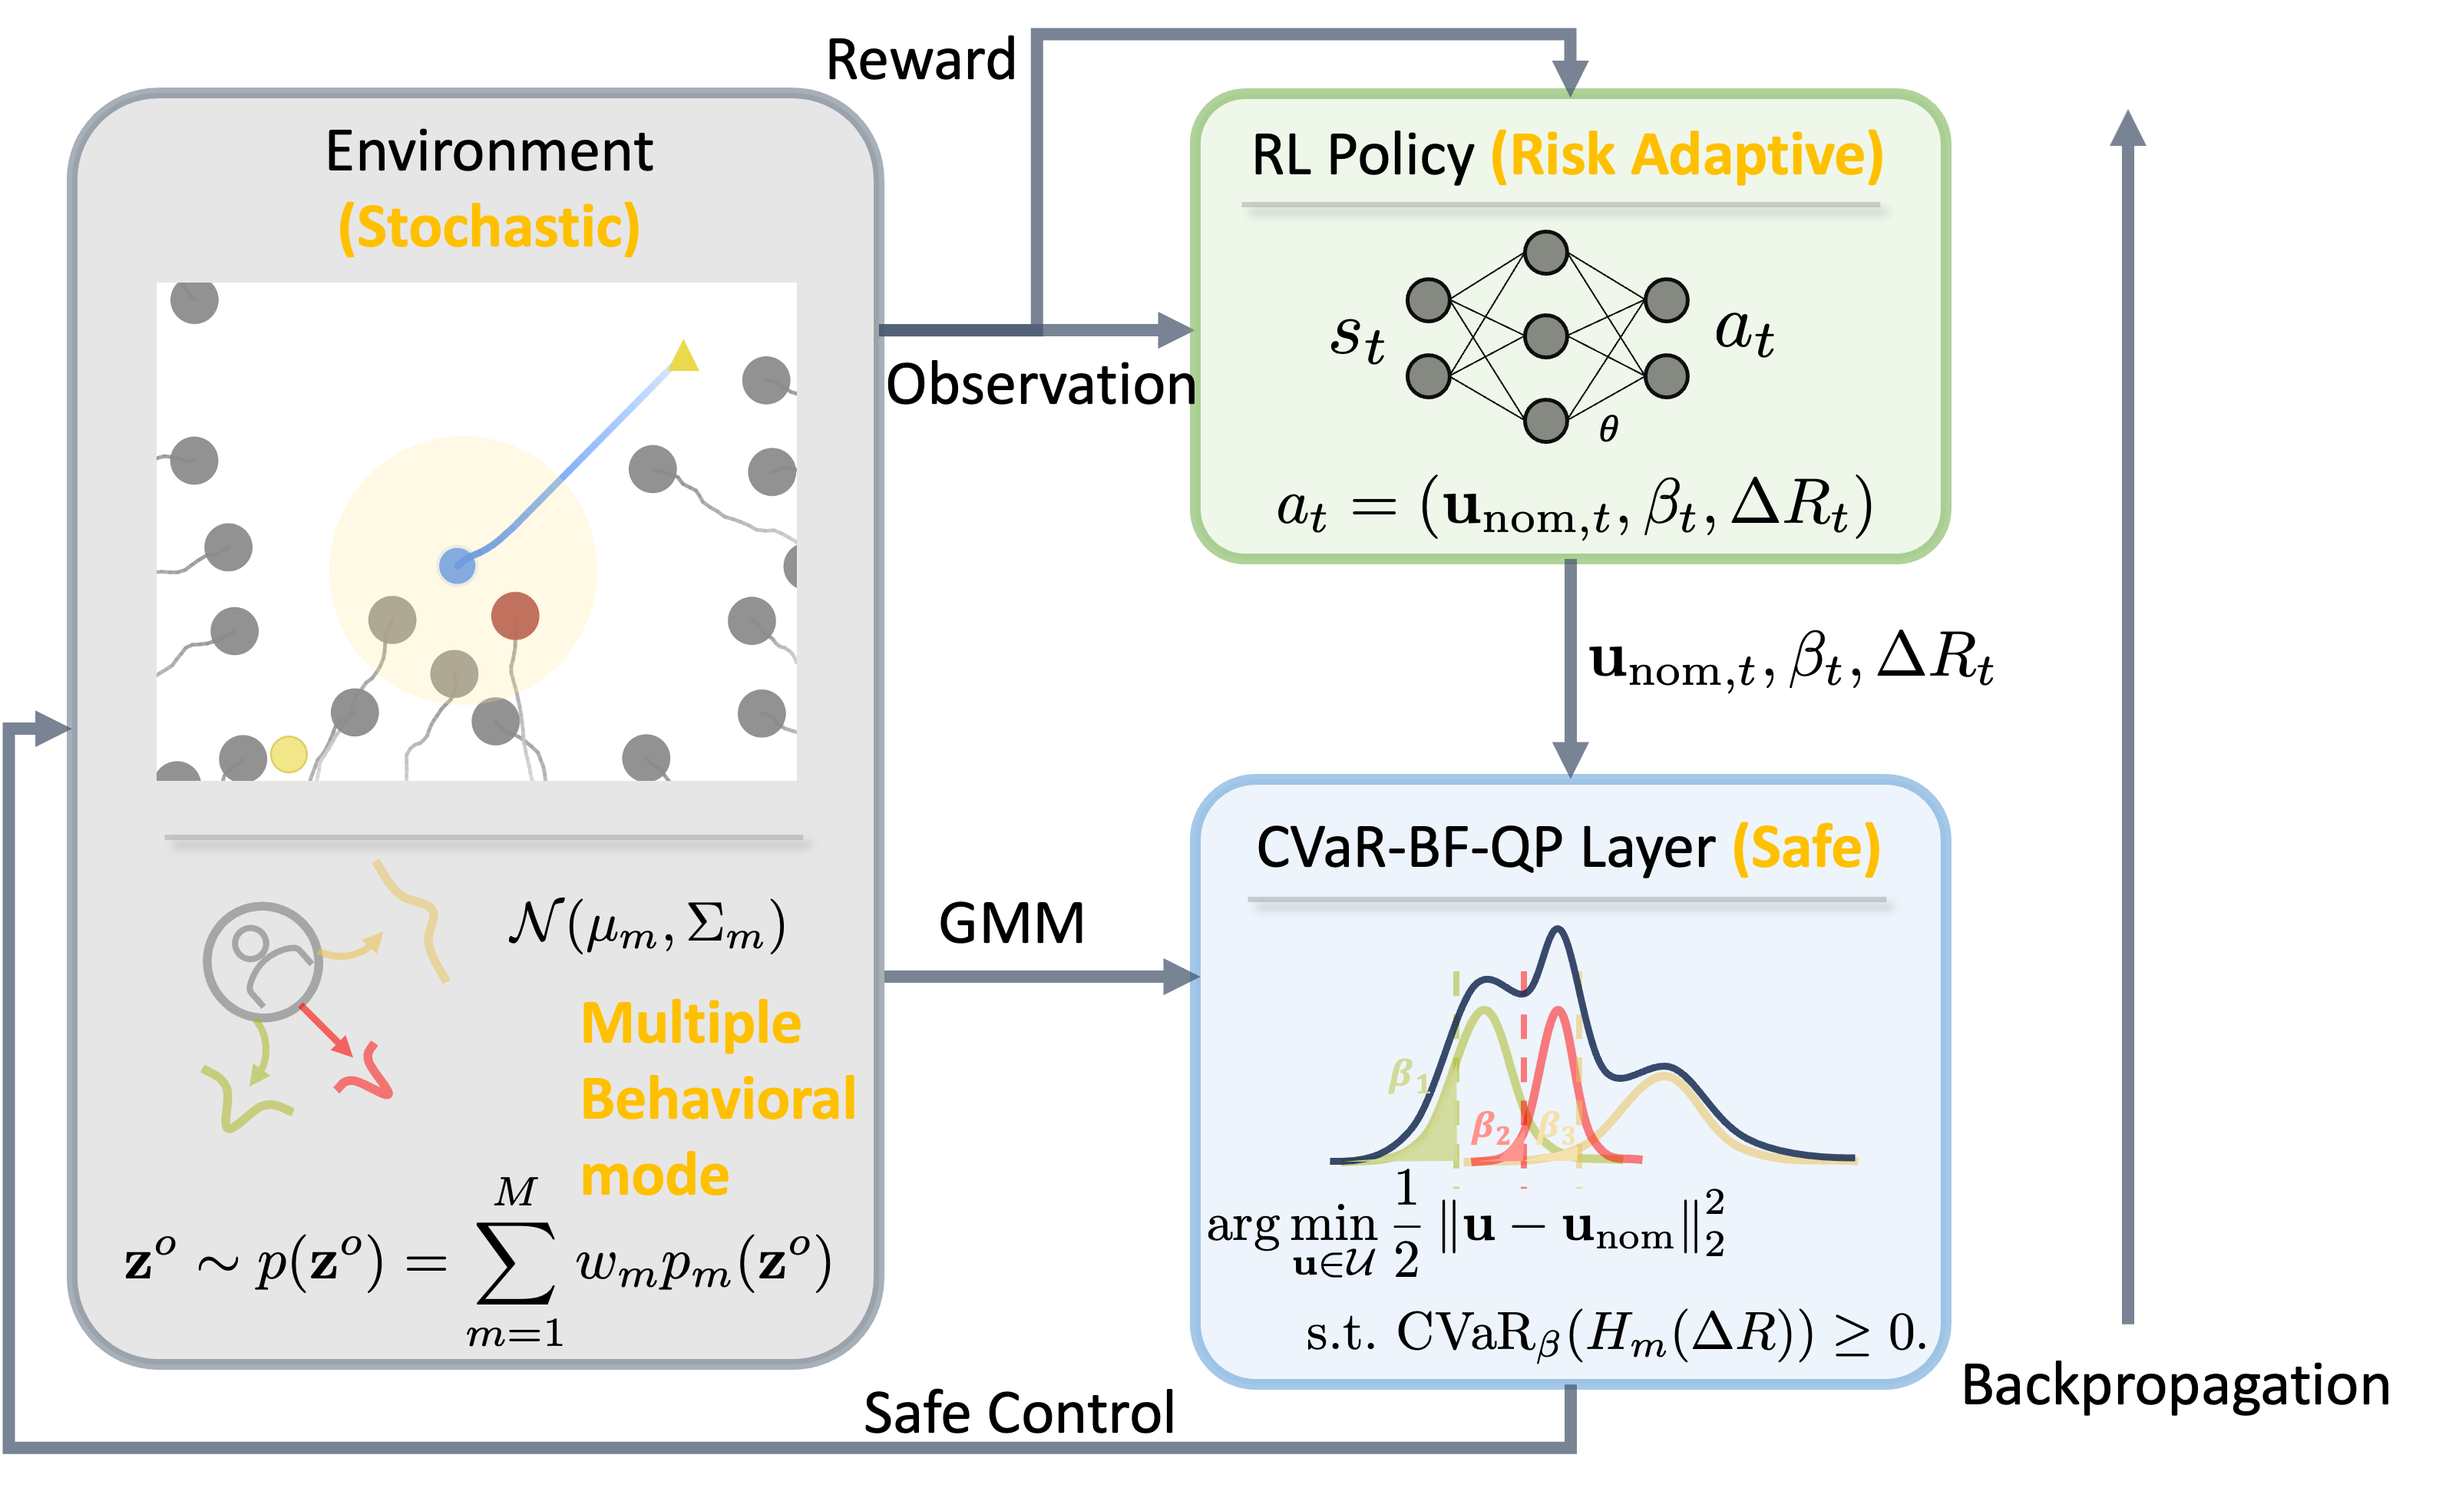
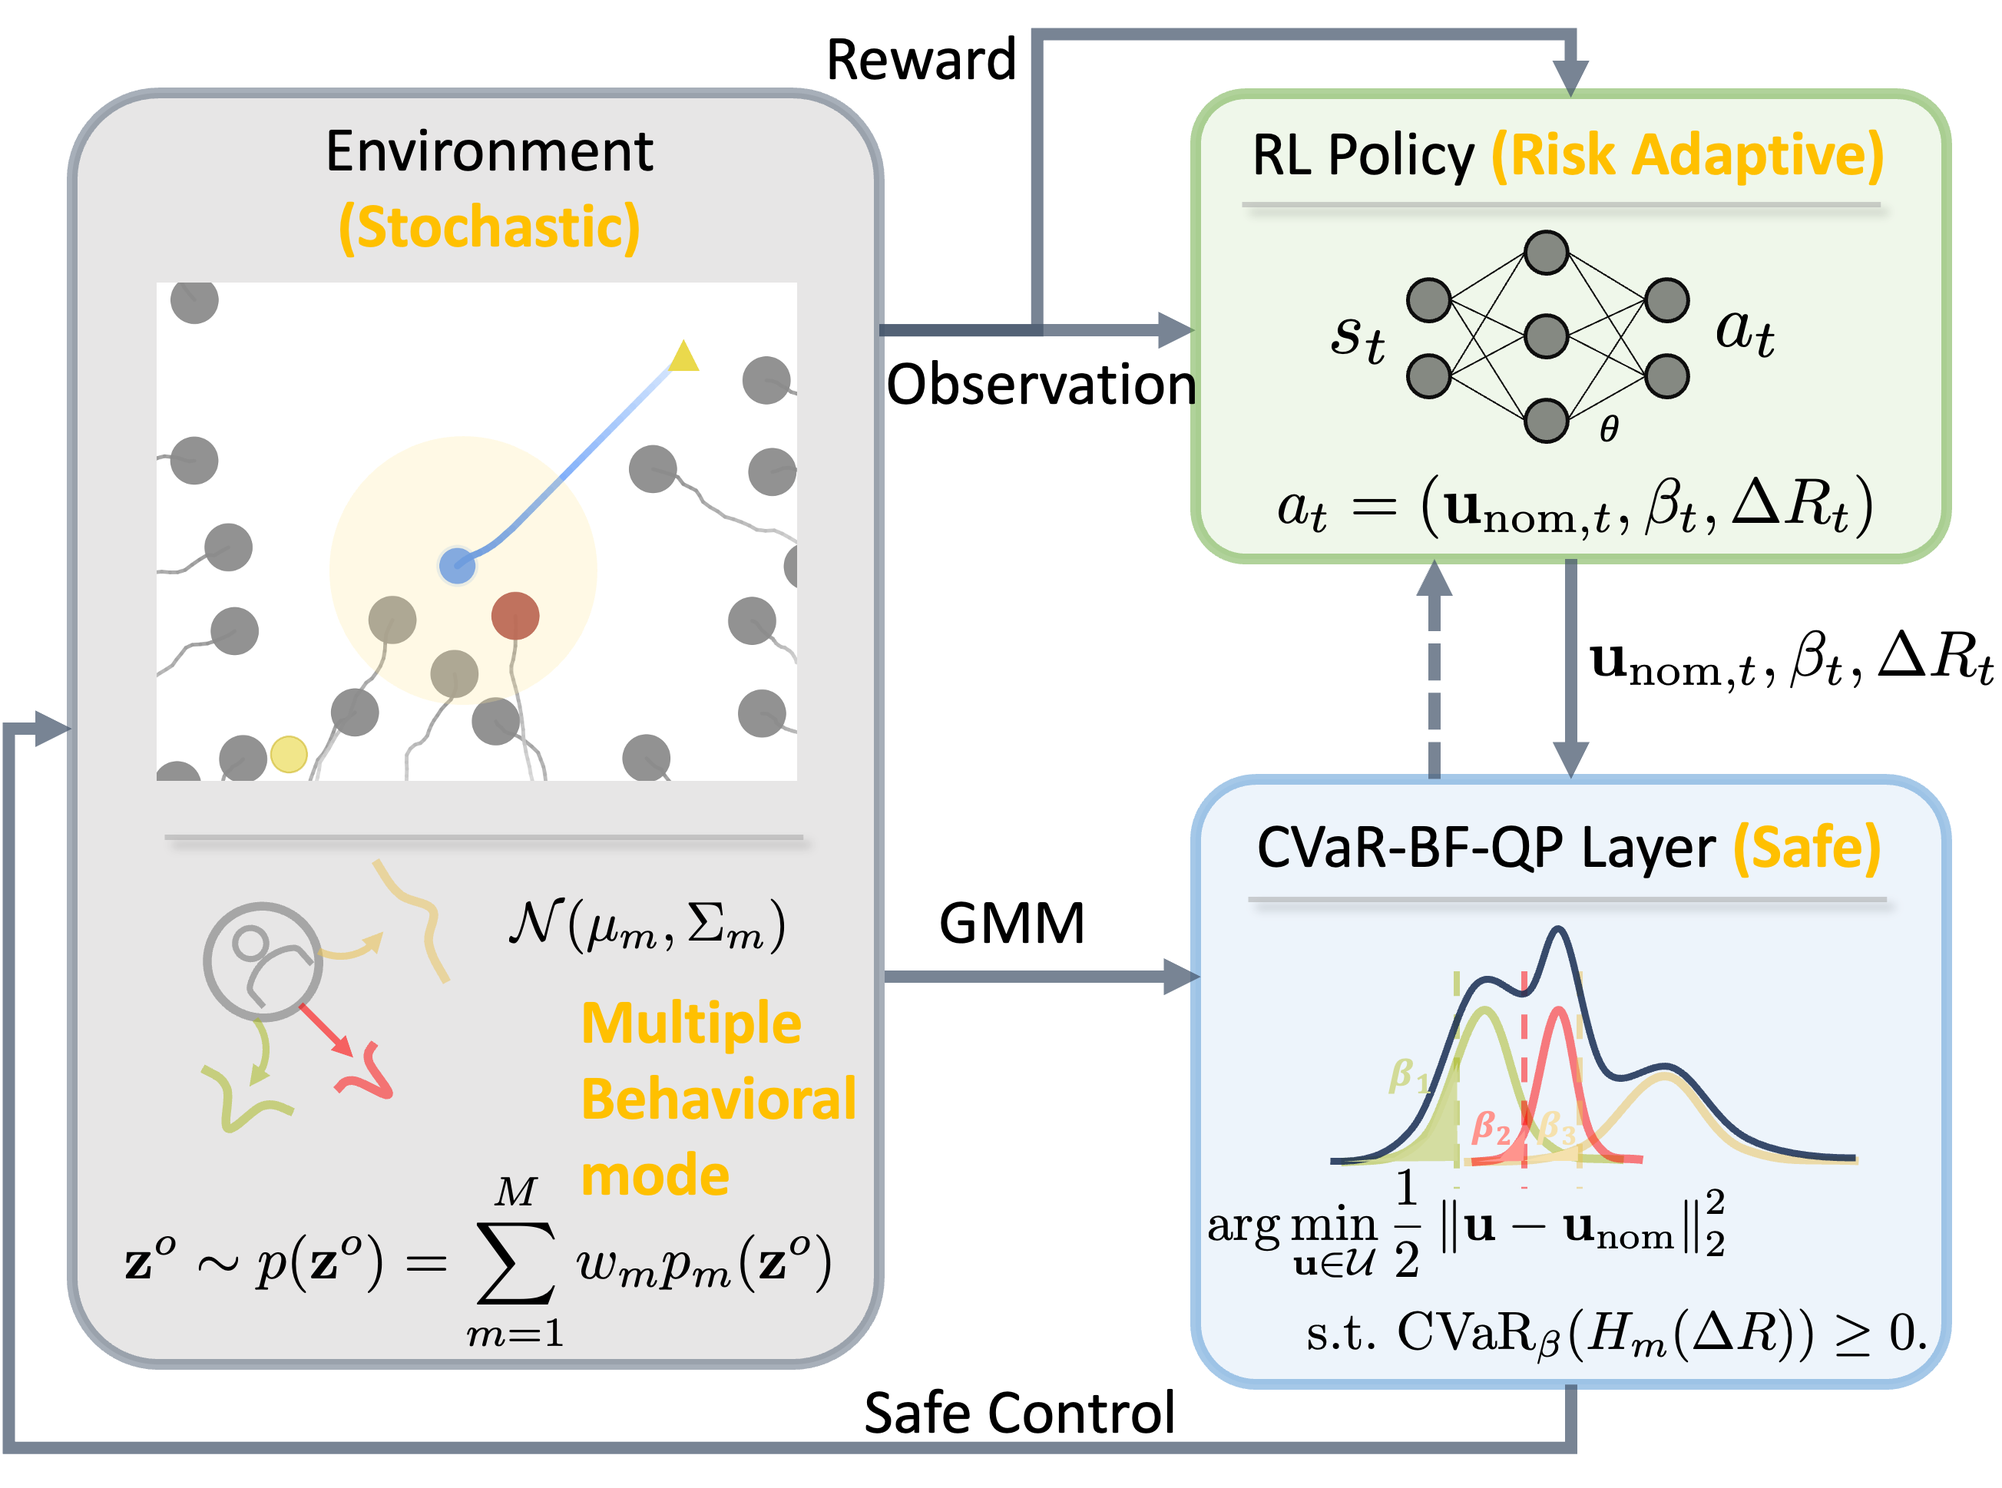
update name

Changed region(s): [[0.0, 0.0, 0.9942, 0.9907]]

diff --git a/index.html b/index.html
@@ -70,6 +70,7 @@
             <span class="publication-title-line">Learning to Adapt Risk via</span>
             <span class="publication-title-line">Differentiable CVaR Barrier Functions</span>
           </h1>
+          <!--
           <div class="is-size-5 publication-authors">
             <span class="author-block">
               <a href="https://lawliet9666.github.io">Xinyi Wang</a><sup>1</sup>,</span>
@@ -89,6 +90,15 @@
           <div class="is-size-5 publication-authors">
             <span class="author-block"><sup>1</sup>Department of Robotics, University of Michigan,</span>
             <span class="author-block"><sup>2</sup>Toyota North America Research &amp; Development</span>
+          </div>
+          -->
+
+          <div class="is-size-5 publication-authors">
+            <span class="author-block">匿名</span>
+          </div>
+
+          <div class="is-size-5 publication-authors">
+            <span class="author-block">匿名</span>
           </div>
 
           <div class="has-text-centered" style="margin-top: 1.25rem;">
@@ -474,10 +484,16 @@
         </summary>
         <div class="mme-finding-body">
           <p class="mme-key-line">
-            Optimization-based methods generally struggle in highly dynamic environments due to frequent infeasibility of the underlying control problems, resulting in lower success rates.
+            Hybrid RL + optimization methods provide the strongest overall balance of safety and task performance.
           </p>
           <p class="mme-body-copy">
-            In contrast, pure RL methods improve task performance in some cases but still exhibit relatively high collision rates without explicit safety mechanisms, indicating that efficiency alone is insufficient. Hybrid RL with optimization approaches leverage the strengths of both types of methods and achieve more reliable performance overall, highlighting the benefit of combining learning with explicit safety mechanisms.
+            <strong>Optimization:</strong> lower success due to infeasibility in dynamic scenes.
+          </p>
+          <p class="mme-body-copy">
+            <strong>Pure RL:</strong> better efficiency, but higher collision rates.
+          </p>
+          <p class="mme-body-copy">
+            <strong>Hybrid RL + optimization:</strong> more reliable and consistently safer.
           </p>
           <div class="mme-evidence-row">
             <a class="mme-evidence-chip" href="#exp-table-i">Table I</a>
@@ -546,13 +562,16 @@
         </summary>
         <div class="mme-finding-body">
           <p class="mme-key-line">
-            Under OOD shifts, vanilla RL exhibits a noticeable degradation in performance, often performing worse than optimization-based methods such as CVaR-BF-QP. This suggests that optimization-based approaches provide greater robustness to environmental variations compared to purely learned policies.
+            OOD shifts hurt pure RL the most; adaptive safety improves robustness.
           </p>
           <p class="mme-body-copy">
-            At the same time, incorporating optimization-based safety mechanisms into RL, such as RL + Safety Filter, significantly mitigates this degradation, recovering much of the lost performance and bringing it closer to that of optimization-based methods, although a performance gap still remains.
+            <strong>Vanilla RL:</strong> largest performance drop under OOD changes.
           </p>
           <p class="mme-body-copy">
-            To further address this gap, the proposed method consistently outperforms the safety-filtered baseline, achieving higher success rates and returns while maintaining competitive safety. This robustness arises from the end-to-end learning of adaptive risk parameters, which enables the policy to adjust its behavior in response to changing scenarios.
+            <strong>RL + Safety Filter:</strong> recovers much of the lost robustness, but still trails.
+          </p>
+          <p class="mme-body-copy">
+            <strong>Proposed method:</strong> best OOD performance with competitive safety.
           </p>
           <div class="mme-evidence-row">
             <a class="mme-evidence-chip" href="#exp-table-iii">Table III</a>
